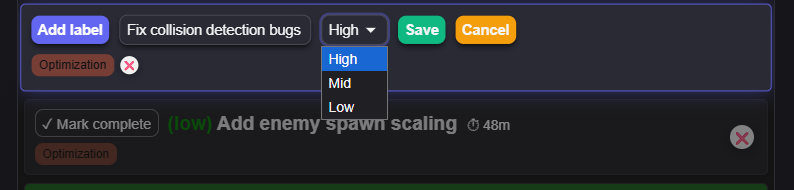
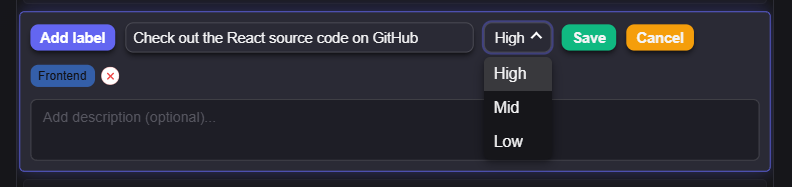
docs: update README with new features & clearer architecture
- Added “Project sharing & collaboration” bullet:
- Added drag‑and‑drop reordering note under Task management.
- Updated task bullet to mention optional description field.
- Refined data‑isolation wording to include projects shared via invite code.
- Added persistent‑ordering description in Data Storage section.
- Extended ERD with ProjectCollaborator join table and orderIndex fields.
- Updated folder‑structure list (Toast/, constants, utils, etc.).
- Minor wording tweaks & typo fixes.

diff --git a/README.md b/README.md
@@ -22,11 +22,12 @@ This repository demonstrates a unified monolithic structure where front-end UI a
 The project incorporates a clean separation of presentation, state management, and direct backend actions:
 
 ### Frontend (Client Components & State)
-- **`app/`** → Next.js App Router root layout (`layout.js`) and main application dashboard (`page.js`)
+- **`app/`** → Next.js App Router root layout (`layout.tsx`) and main application dashboard (`page.tsx`)
 - **`frontend/components/`** → Reusable interactive React components
   - **`Task/`** → Task rendering, inline editing, and state-synced background timer logic
   - **`TopSectionComponents/`** → High-level interactive elements (Dropdowns, Filters, Project actions)
   - **`authentication/`** → Login, registration forms, and Auth header UI
+  - **`Toast/`** → Toast notifications for user feedback
 - **`frontend/store/`** → Centralized Zustand global state management and isolated store slices
 - **`frontend/modals/`** → Popup dialogues and interactive item pickers wrapped in Framer Motion `AnimatePresence`
 - **`frontend/styles/`** → Modular custom CSS stylesheets
@@ -35,10 +36,13 @@ The project incorporates a clean separation of presentation, state management, a
 - **`public/assets/`** → Static media, icons, and interface SVGs
 
 ### Backend (Server Actions & ORM)
-- **`backend/actions/`** → Next.js Server Actions (`projectActions.js`, `taskActions.js`, `labelActions.js`) for direct database mutations
+- **`backend/actions/`** → Next.js Server Actions (`projectActions.ts`, `taskActions.ts`, `labelActions.ts`) for direct database mutations
 - **`backend/lib/prisma.js`** → Cached global Prisma Client portal designed for efficient connection pooling during development
 - **`backend/utils/`** → Seeding structures and initial defaults for brand-new users (`defaultData.js`)
 - **`prisma/`** → Database architecture definitions (`schema.prisma`)
+
+### Testing
+- **`tests/`** → Jest unit tests for store slices and utilities
 
 ---
 
@@ -47,7 +51,7 @@ The project incorporates a clean separation of presentation, state management, a
 - **Authentication & Multi-User System**
   - Full JWT-based credential authentication (Login/Registration).
   - Secure HTTP-only cookie session management.
-  - Complete data isolation (users can only see and modify their own projects and tasks).
+  - Complete data isolation (users can only see and modify their own projects and tasks, plus projects explicitly shared with them).
 
    ![Registration](assets/authentication.png)
 
@@ -57,6 +61,10 @@ The project incorporates a clean separation of presentation, state management, a
   
   ![Projects](assets/projects.png)
 
+- **Project sharing & collaboration**
+  - Share a project via a unique 6-character invite code.
+  - Role-based access: the **owner** and **collaborators** have different permissions. Collaborators can manage tasks and labels, while only the owner can rename or delete the project.
+
 - **Labels**
   - Each new project has unique labels.
   - Add labels to tasks.
@@ -65,9 +73,10 @@ The project incorporates a clean separation of presentation, state management, a
   ![Labels](assets/labels.png)
 
 - **Task management**
-  - Add new tasks to projects.
+  - Add new tasks to projects, with an optional description for extra details.
   - Edit, delete, and update task status (done / in progress).
   - Track time spent on tasks with **background-syncing timers** using timestamps, ensuring accurate duration tracking even when navigating away or closing the app.
+  - **Drag-and-drop reordering** powered by Framer Motion, with the custom order persisted in the database.
   
   ![Task Edit](assets/edit_task.png)
 
@@ -106,6 +115,8 @@ The project incorporates a clean separation of presentation, state management, a
 * **ACID Transactions & Data Migration:** Failsafe database transactions ensure total data safety. When a user registers and opts to migrate their guest data, the transaction guarantees that if the complex transfer of projects and tasks fails midway, the registration safely rolls back without deleting the original guest account. 
 * **Optimized Data Loading:** Implemented lazy loading so tasks are only fetched when viewing a specific project, massively reducing initial load times and memory footprint.
 * **Optimistic UI:** Robust client-side optimistic updates combined with network race-condition protections ensure a seamless UX.
+* **Persistent Task Ordering:** Tasks are ordered by a floating-point `orderIndex`, saved after each drag-and-drop. A self-healing step re-indexes tasks with missing or duplicate values in a single batch transaction.
+* **Project Sharing:** Access is modeled with a `ProjectCollaborator` join table (unique per project and user). Every server action checks whether the caller is the project owner or a collaborator before reading or modifying data.
 
 ---
 
@@ -165,14 +176,17 @@ classDiagram
         String id [PK]
         String name
         String userId [FK]
+        String shareCode
         DateTime createdAt
     }
     
     class Task {
         String id [PK]
         String title
+        String description
         Boolean done
         String priority
+        Float orderIndex
         String projectId [FK]
         DateTime createdAt
     }
@@ -189,4 +203,13 @@ classDiagram
     Project "1" --> "*" Task : contains
     Project "1" --> "*" Label : owns
     Task "*" -- "*" Label : has
+
+    class ProjectCollaborator {
+        String id [PK]
+        String projectId [FK]
+        String userId [FK]
+        DateTime joinedAt
+    }
+    User "1" --> "*" ProjectCollaborator : joins
+    Project "1" --> "*" ProjectCollaborator : shared with
 ```
